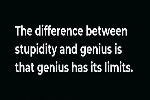
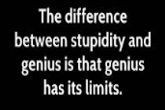
Updated clearer images of the quotes

diff --git a/assets/js/script.js b/assets/js/script.js
@@ -30,9 +30,9 @@ function resetTimer() {
 function endGame() {
     stopTimer();
     setTimeout(function () {
-        alert('GAME OVER, CONGRATULATIONS!!');
+        alert('GAME OVER, CONGRATULATIONS! Can you complete it quicker?');
         localStorage.setItem("score", seconds);
-    }, 2000);
+    }, 1000);
 }
 
 document.querySelector(".reset button").addEventListener("click", () => {
@@ -188,3 +188,5 @@ function resetGame() {
     gameStarted = false;
     console.log(`current score: ${localStorage.getItem("score")}`);
 }
+
+//hi score area

diff --git a/assets/css/style.css b/assets/css/style.css
@@ -84,6 +84,8 @@ body {
     background-color: black;
     transform: rotateY(180deg);
     box-shadow: 0 4px 8px 0 rgba(0, 0, 0, 0.2), 0 6px 20px 0 rgba(0, 0, 0, 0.19);
+
+    
 }
 
 .card__face--back2 {
@@ -108,6 +110,7 @@ body {
 
 .card__face--back4 {
     background-image: url('../images/will-ferrell.jpg');
+    
     background-size: contain;
     background-repeat: no-repeat;
     background-position: center;

diff --git a/index.html b/index.html
@@ -101,6 +101,12 @@
 
     </div>
 
+    <!--hiscore area-->
+    
+
+
+
+
     <!--javascript link here-->
     <script src='assets/js/script.js'></script>
 </body>
